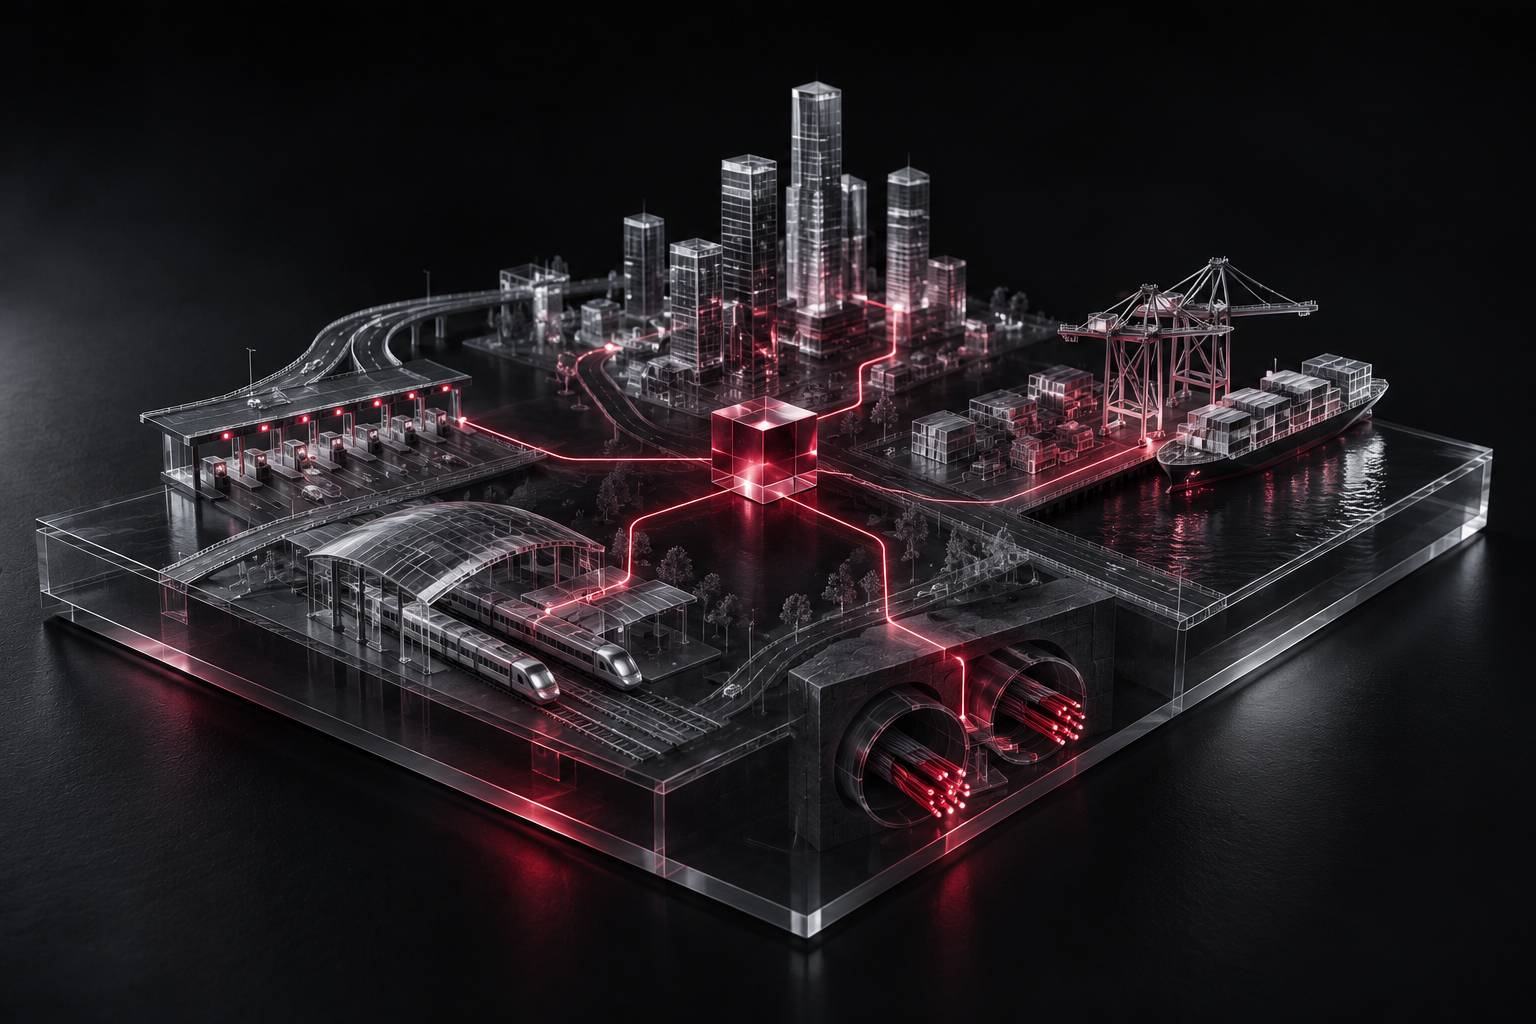
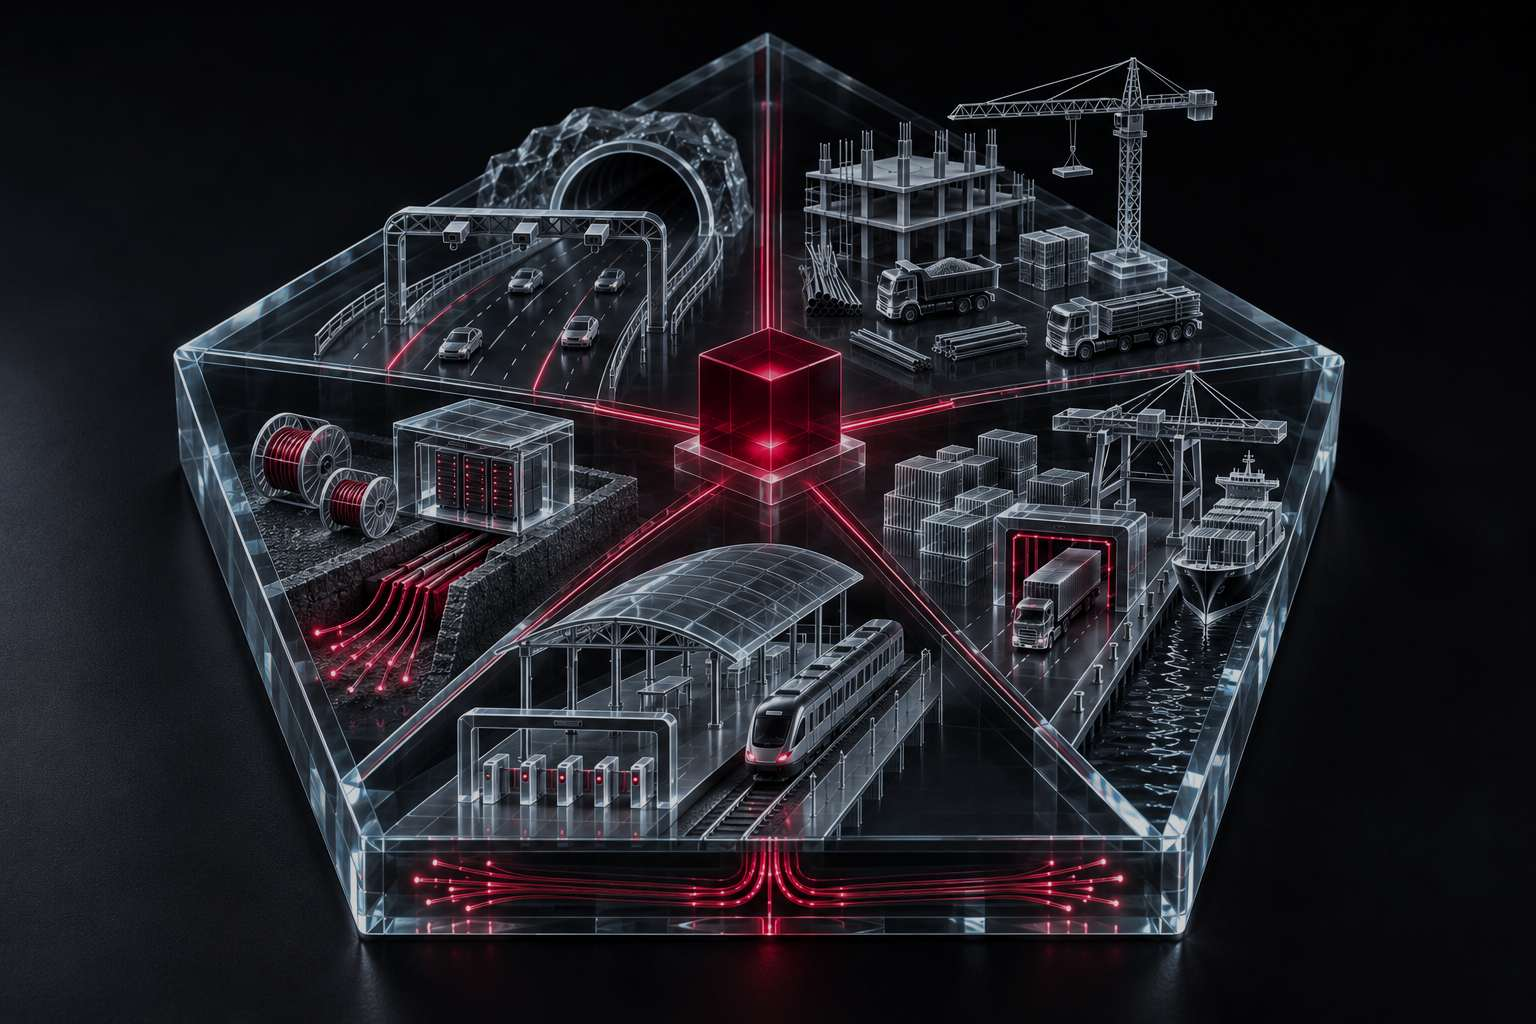
Ecosistema: maqueta pentagonal con cada alianza señalada en su zona
- Nueva maqueta (pentágono): SICE, Vista Alegre, NUCTECH (puerto y tren), ENTELAR y Capa de IA al centro
- 6 escenas: título, 4 alianzas con su leyenda original y Capa de IA
- Escritorio: tarjeta en la esquina libre unida a su zona con una línea; celular: nombre en el punto y leyenda abajo
- Operaciones y Ecosistema comparten la misma lógica de escenas con puntos

Claude-Session: https://claude.ai/code/session_01WeY6dgYugp4uGVqj1CjKYH

diff --git a/script.js b/script.js
@@ -33,7 +33,6 @@ document.addEventListener('DOMContentLoaded', () => {
 
     const sequenceSectionOperaciones = document.getElementById('operaciones');
     const operacionesTrack = document.getElementById('operaciones-text-track');
-    const operacionesBgs = sequenceSectionOperaciones ? sequenceSectionOperaciones.querySelectorAll('.seq-bg') : [];
 
     const sequenceSectionPilares = document.getElementById('experiencia');
     const pilaresTrack = document.getElementById('pilares-text-track');
@@ -46,57 +45,85 @@ document.addEventListener('DOMContentLoaded', () => {
 
     const sequenceSectionEcosistema = document.getElementById('ecosistema');
     const ecosistemaTrack = document.getElementById('ecosistema-text-track');
-    const ecosistemaBgs = sequenceSectionEcosistema ? sequenceSectionEcosistema.querySelectorAll('.seq-bg') : [];
 
-    // OPERACIONES: escenas fijas (título y 4 regiones señaladas en el mapa)
-    const opSceneCount = sequenceSectionOperaciones ? sequenceSectionOperaciones.querySelectorAll('.snap-point').length : 0;
-    const opStage = sequenceSectionOperaciones ? sequenceSectionOperaciones.querySelector('.op-stage') : null;
-    const opSpots = sequenceSectionOperaciones ? sequenceSectionOperaciones.querySelectorAll('.op-spot') : [];
-    let opCurrent = -1;
+    // ESCENAS CON PUNTOS SOBRE UNA IMAGEN (Operaciones y Ecosistema)
+    // Escena 0: título sobre blanco. Escenas 1+: se enciende el punto (y su tarjeta) de esa escena;
+    // los anteriores quedan con su nombre.
+    function makeSpotSequence(section, track) {
+        const stage = section.querySelector('.op-stage');
+        const bgs = section.querySelectorAll(':scope > .sticky-container > .seq-bg');
+        const spots = section.querySelectorAll('.op-spot');
+        const cards = section.querySelectorAll('.eco-card');
+        const svg = section.querySelector('.eco-lines');
+        const lines = svg ? svg.querySelectorAll('line') : [];
+        const count = section.querySelectorAll('.snap-point').length;
+        let current = -1;
 
-    function placeOpSpots() {
-        const vertical = window.innerWidth <= 768;
-        opSpots.forEach(spot => {
-            spot.style.left = (vertical ? spot.dataset.xv : spot.dataset.x) + '%';
-            spot.style.top = (vertical ? spot.dataset.yv : spot.dataset.y) + '%';
-        });
-        if (opCurrent >= 0) { const c = opCurrent; opCurrent = -1; setOpScene(c); }
-    }
-
-    function setOpScene(index) {
-        if (index === opCurrent) return;
-        opCurrent = index;
-        sequenceSectionOperaciones.dataset.scene = index;
-        if (operacionesTrack) operacionesTrack.style.transform = `translateY(-${index * 100}vh)`;
-        operacionesBgs.forEach((bg, idx) => bg.classList.toggle('active', idx === Math.min(index, 1)));
-        let focus = null;
-        opSpots.forEach(spot => {
-            const n = Number(spot.dataset.scene);
-            spot.classList.toggle('is-on', n === index);
-            spot.classList.toggle('is-seen', n < index);
-            if (n === index) focus = spot;
-        });
-        if (opStage && focus) {
-            opStage.style.setProperty('--fx', focus.style.left);
-            opStage.style.setProperty('--fy', focus.style.top);
+        function drawLines() {
+            if (!svg || !stage) return;
+            const sr = stage.getBoundingClientRect();
+            svg.setAttribute('viewBox', `0 0 ${sr.width} ${sr.height}`);
+            lines.forEach(line => {
+                const spot = section.querySelector('#spot-' + line.dataset.from);
+                const card = Array.from(cards).find(c => c.dataset.for.split(' ').includes(line.dataset.from));
+                if (!spot || !card) return;
+                const px = parseFloat(spot.style.left) / 100 * sr.width;
+                const py = parseFloat(spot.style.top) / 100 * sr.height;
+                const cl = card.offsetLeft, ct = card.offsetTop, cw = card.offsetWidth, ch = card.offsetHeight;
+                // Punto del borde de la tarjeta más cercano al punto de la maqueta
+                const cx = Math.min(Math.max(px, cl), cl + cw);
+                const cy = Math.min(Math.max(py, ct), ct + ch);
+                line.setAttribute('x1', cx); line.setAttribute('y1', cy);
+                line.setAttribute('x2', px); line.setAttribute('y2', py);
+            });
         }
+
+        function place() {
+            const vertical = window.innerWidth <= 768;
+            spots.forEach(spot => {
+                spot.style.left = (vertical ? spot.dataset.xv : spot.dataset.x) + '%';
+                spot.style.top = (vertical ? spot.dataset.yv : spot.dataset.y) + '%';
+            });
+            drawLines();
+            if (current >= 0) { const c = current; current = -1; setScene(c); }
+        }
+
+        function setScene(index) {
+            if (index === current) return;
+            current = index;
+            section.dataset.scene = index;
+            if (track) track.style.transform = `translateY(-${index * 100}vh)`;
+            bgs.forEach((bg, idx) => bg.classList.toggle('active', idx === Math.min(index, 1)));
+            let focus = null;
+            section.querySelectorAll('.op-spot, .eco-card, .eco-lines line').forEach(el => {
+                const n = Number(el.dataset.scene);
+                el.classList.toggle('is-on', n === index);
+                el.classList.toggle('is-seen', n < index);
+                if (n === index && !focus && el.classList.contains('op-spot')) focus = el;
+            });
+            if (stage && focus) {
+                stage.style.setProperty('--fx', focus.style.left);
+                stage.style.setProperty('--fy', focus.style.top);
+            }
+        }
+
+        place();
+        window.addEventListener('resize', place);
+        window.addEventListener('load', drawLines);
+
+        return function onScroll(windowHeight) {
+            const rect = section.getBoundingClientRect();
+            // Una escena por pantalla, alineada con los puntos de anclaje (tolerancia de 2px)
+            if (rect.top <= 2 && rect.bottom >= windowHeight - 2) {
+                let activeIndex = Math.round(Math.max(0, -rect.top) / windowHeight);
+                if (activeIndex >= count) activeIndex = count - 1;
+                setScene(activeIndex);
+            }
+        };
     }
 
-    if (sequenceSectionOperaciones) {
-        placeOpSpots();
-        window.addEventListener('resize', placeOpSpots);
-    }
-
-    // ECOSISTEMA: escenas fijas (título, maqueta y capa de IA)
-    const ecoSceneCount = sequenceSectionEcosistema ? sequenceSectionEcosistema.querySelectorAll('.snap-point').length : 0;
-    let ecoCurrent = -1;
-    function setEcoScene(index) {
-        if (index === ecoCurrent) return;
-        ecoCurrent = index;
-        sequenceSectionEcosistema.dataset.scene = index;
-        if (ecosistemaTrack) ecosistemaTrack.style.transform = `translateY(-${index * 100}vh)`;
-        ecosistemaBgs.forEach((bg, idx) => bg.classList.toggle('active', idx === Math.min(index, 1)));
-    }
+    const operacionesScroll = sequenceSectionOperaciones ? makeSpotSequence(sequenceSectionOperaciones, operacionesTrack) : null;
+    const ecosistemaScroll = sequenceSectionEcosistema ? makeSpotSequence(sequenceSectionEcosistema, ecosistemaTrack) : null;
 
     window.addEventListener('scroll', () => {
         const currentScrollY = window.scrollY;
@@ -125,15 +152,7 @@ document.addEventListener('DOMContentLoaded', () => {
             }
         }
 
-        if (sequenceSectionOperaciones) {
-            const rect = sequenceSectionOperaciones.getBoundingClientRect();
-            // Misma lógica que IA: una escena por pantalla, alineada con los puntos de anclaje
-            if (rect.top <= 2 && rect.bottom >= windowHeight - 2) {
-                let activeIndex = Math.round(Math.max(0, -rect.top) / windowHeight);
-                if (activeIndex >= opSceneCount) activeIndex = opSceneCount - 1;
-                setOpScene(activeIndex);
-            }
-        }
+        if (operacionesScroll) operacionesScroll(windowHeight);
 
         if (sequenceSectionIA) {
             const rect = sequenceSectionIA.getBoundingClientRect();
@@ -189,15 +208,7 @@ document.addEventListener('DOMContentLoaded', () => {
             }
         }
 
-        if (sequenceSectionEcosistema) {
-            const rect = sequenceSectionEcosistema.getBoundingClientRect();
-            // Misma lógica que IA: una escena por pantalla, alineada con los puntos de anclaje
-            if (rect.top <= 2 && rect.bottom >= windowHeight - 2) {
-                let activeIndex = Math.round(Math.max(0, -rect.top) / windowHeight);
-                if (activeIndex >= ecoSceneCount) activeIndex = ecoSceneCount - 1;
-                setEcoScene(activeIndex);
-            }
-        }
+        if (ecosistemaScroll) ecosistemaScroll(windowHeight);
     });
 
     /* ==================================================

diff --git a/index.html b/index.html
@@ -454,21 +454,43 @@
             </div>
         </section>
 
-        <!-- 6. ECOSISTEMA (escenas fijas) -->
-        <section id="ecosistema" class="sticky-sequence ecosistema-sequence" data-scene="0">
+        <!-- 6. ECOSISTEMA (escenas fijas: título, 4 alianzas señaladas en la maqueta y capa de IA) -->
+        <section id="ecosistema" class="sticky-sequence ecosistema-sequence spot-sequence" data-scene="0">
             <div class="snap-grid">
                 <div class="snap-point"></div><div class="snap-point"></div>
-                <div class="snap-point"></div>
+                <div class="snap-point"></div><div class="snap-point"></div>
+                <div class="snap-point"></div><div class="snap-point"></div>
             </div>
             <div class="sticky-container" id="sticky-ecosistema">
                 <div class="seq-bg active" style="background-color: var(--bg-white);"></div>
                 <div class="seq-bg bg-picture eco-bg">
-                    <div class="eco-stage">
+                    <div class="eco-stage op-stage spot-stage">
                         <picture>
                             <source media="(max-width: 768px)" srcset="img/ecosistemav.jpg">
-                            <img src="img/ecosistema.jpg" alt="Maqueta de infraestructura: peaje, estación de tren, puerto y túneles de fibra óptica conectados por un núcleo de datos" class="eco-img">
+                            <img src="img/ecosistema.jpg" alt="Maqueta pentagonal de cristal con cinco zonas: autopista con peaje y túnel, obra en construcción, puerto con inspección de carga, estación de tren y red de fibra óptica, conectadas a un cubo central de IA" class="eco-img">
                         </picture>
-                        <div class="eco-shade"></div>
+                        <div class="op-shade"></div>
+                        <svg class="eco-lines" aria-hidden="true">
+                            <line data-scene="1" data-from="sice"/>
+                            <line data-scene="2" data-from="va"/>
+                            <line data-scene="3" data-from="nuc"/>
+                            <line data-scene="3" data-from="nuc-tren"/>
+                            <line data-scene="4" data-from="ent"/>
+                            <line data-scene="5" data-from="ia"/>
+                        </svg>
+                        <div class="op-spots">
+                            <div class="op-spot" id="spot-sice" data-scene="1" data-x="33.9" data-y="28.3" data-xv="31.3" data-yv="37.8"><span class="eco-dot"></span><span class="op-name">SICE</span></div>
+                            <div class="op-spot" id="spot-va" data-scene="2" data-x="60.5" data-y="24.4" data-xv="63.5" data-yv="36.5"><span class="eco-dot"></span><span class="op-name">Vista Alegre</span></div>
+                            <div class="op-spot" id="spot-nuc" data-scene="3" data-x="67.7" data-y="54.7" data-xv="72.8" data-yv="55.3"><span class="eco-dot"></span><span class="op-name">NUCTECH</span></div>
+                            <div class="op-spot spot-extra" id="spot-nuc-tren" data-scene="3" data-x="50.8" data-y="67.4" data-xv="54.7" data-yv="61.2"><span class="eco-dot"></span></div>
+                            <div class="op-spot" id="spot-ent" data-scene="4" data-x="28.0" data-y="48.8" data-xv="28.3" data-yv="50.8"><span class="eco-dot"></span><span class="op-name">ENTELAR</span></div>
+                            <div class="op-spot spot-core" id="spot-ia" data-scene="5" data-x="49.8" data-y="39.0" data-xv="49.8" data-yv="44.9"><span class="eco-dot"></span></div>
+                        </div>
+                        <div class="eco-card c-tl" data-scene="1" data-for="sice"><span class="op-num">01 / 04 · Movilidad</span><h3>SICE</h3><p><strong>Sistemas ITS, peaje inteligente</strong> con IA (Free-Flow) y monitorización algorítmica y autónoma de túneles vehiculares.</p></div>
+                        <div class="eco-card c-tr" data-scene="2" data-for="va"><span class="op-num">02 / 04 · Suministro</span><h3>Vista Alegre</h3><p><strong>Provisión ininterrumpida</strong> de materiales estructurales y operación de red logística pesada para la cimentación de la infraestructura civil.</p></div>
+                        <div class="eco-card c-br" data-scene="3" data-for="nuc nuc-tren"><span class="op-num">03 / 04 · Seguridad</span><h3>NUCTECH</h3><p><strong>Inspección tecnológica</strong> profunda de carga de mercancías y validación de alto flujo en sistemas de boletaje ferroviario.</p></div>
+                        <div class="eco-card c-bl" data-scene="4" data-for="ent"><span class="op-num">04 / 04 · Conectividad</span><h3>ENTELAR</h3><p><strong>Diseño e instalación de</strong> infraestructura de FO troncal y configuración del ecosistema de conectividad privada FLEXI WAN.</p></div>
+                        <div class="eco-card c-tr eco-card-ia" data-scene="5" data-for="ia"><span class="op-num">4ward</span><h3>Capa de IA</h3><p>Conecta los datos de los cuatro frentes.</p></div>
                     </div>
                 </div>
 
@@ -477,12 +499,30 @@
                         <div class="text-slider-item">
                             <h2 class="edge-title text-dark">El Ecosistema en Acción</h2>
                         </div>
-                        <div class="text-slider-item"></div>
-                        <div class="text-slider-item">
-                            <p class="ally-tag">4ward</p>
-                            <h3 class="edge-title text-light eco-title">Capa de IA 4ward</h3>
+                        <div class="text-slider-item op-cap">
+                            <span class="op-num">01 / 04 · Movilidad</span>
+                            <h3 class="edge-title text-light">SICE</h3>
+                            <p class="seq-desc">Sistemas ITS, peaje inteligente con IA (Free-Flow) y monitorización algorítmica y autónoma de túneles vehiculares.</p>
+                        </div>
+                        <div class="text-slider-item op-cap">
+                            <span class="op-num">02 / 04 · Suministro</span>
+                            <h3 class="edge-title text-light">Vista Alegre</h3>
+                            <p class="seq-desc">Provisión ininterrumpida de materiales estructurales y operación de red logística pesada para la cimentación de la infraestructura civil.</p>
+                        </div>
+                        <div class="text-slider-item op-cap">
+                            <span class="op-num">03 / 04 · Seguridad</span>
+                            <h3 class="edge-title text-light">NUCTECH</h3>
+                            <p class="seq-desc">Inspección tecnológica profunda de carga de mercancías y validación de alto flujo en sistemas de boletaje ferroviario.</p>
+                        </div>
+                        <div class="text-slider-item op-cap">
+                            <span class="op-num">04 / 04 · Conectividad</span>
+                            <h3 class="edge-title text-light">ENTELAR</h3>
+                            <p class="seq-desc">Diseño e instalación de infraestructura de FO troncal y configuración del ecosistema de conectividad privada FLEXI WAN.</p>
+                        </div>
+                        <div class="text-slider-item op-cap">
+                            <span class="op-num">4ward</span>
+                            <h3 class="edge-title text-light">Capa de IA</h3>
                             <p class="seq-desc">Conecta los datos de los cuatro frentes.</p>
-                            <p class="eco-allies">SICE <span>·</span> Vista Alegre <span>·</span> NUCTECH <span>·</span> ENTELAR</p>
                         </div>
                     </div>
                 </div>

diff --git a/styles.css b/styles.css
@@ -385,25 +385,42 @@ html {
 }
 
 /* =========================================
-   ECOSISTEMA — escenas fijas con etiquetas en HTML
-   Escena 0: título sobre blanco · 1: maqueta limpia · 2: capa de IA (maqueta oscurecida). Las alianzas se presentan en Experiencia.
+   ECOSISTEMA — maqueta pentagonal con las alianzas señaladas en HTML
+   Escena 0: título sobre blanco · 1–4: SICE, Vista Alegre, NUCTECH, ENTELAR · 5: Capa de IA (cubo central).
+   Usa el mismo sistema de puntos que Operaciones (.op-spot, .op-shade, .op-cap); en escritorio la leyenda
+   va en una tarjeta en la esquina libre de la imagen, unida a su zona por una línea (como la imagen original).
 ========================================= */
-.ecosistema-sequence { height: 300vh; }
+.ecosistema-sequence { height: 600vh; }
 .eco-bg { background: #000; }
-.eco-stage { position: relative; width: min(100vw, 150vh); aspect-ratio: 3 / 2; }
+.eco-stage { position: relative; width: min(100vw, 150vh); aspect-ratio: 3 / 2; container-type: size; }
 .eco-stage picture, .eco-img { display: block; width: 100%; height: 100%; }
 .eco-img { object-fit: cover; }
-.eco-shade { position: absolute; inset: 0; pointer-events: none; background: rgba(0,0,0,0.62); opacity: 0; transition: opacity 0.8s ease; }
-.ecosistema-sequence:not([data-scene="0"]):not([data-scene="1"]) .eco-shade { opacity: 1; }
-.eco-title { font-size: clamp(2.6rem, 5.2vw, 6vw); }
-.eco-allies { margin-top: 34px; font-size: 0.85rem; letter-spacing: 4px; text-transform: uppercase; color: #fff; opacity: 0.85; text-align: center; }
-.eco-allies span { color: var(--brand); padding: 0 8px; }
+.ecosistema-sequence .op-name { font-size: clamp(0.62rem, 0.9cqw, 0.78rem); }
+.spot-extra .op-name, .spot-core .op-name { display: none; }
+.op-spot.spot-extra.is-seen { opacity: 0; }
+.ecosistema-sequence .eco-img { -webkit-mask-image: linear-gradient(to right, transparent 0, #000 5%, #000 95%, transparent 100%); mask-image: linear-gradient(to right, transparent 0, #000 5%, #000 95%, transparent 100%); }
+
+.eco-lines { position: absolute; inset: 0; width: 100%; height: 100%; pointer-events: none; z-index: 2; overflow: visible; }
+.eco-lines line { stroke: #fff; stroke-width: 1.5; opacity: 0; transition: opacity 0.5s ease 0.2s; }
+.eco-lines line.is-on { opacity: 0.85; }
+
+.eco-card { position: absolute; z-index: 4; width: 23cqw; padding: 1.6cqw 1.8cqw; background: rgba(8,8,8,0.84); border: 1px solid rgba(137,20,37,0.7); border-radius: 1.6cqw; backdrop-filter: blur(6px); -webkit-backdrop-filter: blur(6px); opacity: 0; transform: translateY(10px); transition: opacity 0.6s ease 0.25s, transform 0.6s ease 0.25s; pointer-events: none; }
+.eco-card::before { content: ''; position: absolute; top: 0; left: 1.8cqw; width: 3.4cqw; height: 3px; background: var(--brand); }
+.eco-card.is-on { opacity: 1; transform: translateY(0); }
+.eco-card .op-num { font-size: clamp(0.6rem, 0.85cqw, 0.8rem); letter-spacing: 2px; }
+.eco-card h3 { font-size: clamp(1.4rem, 2.4cqw, 2.4rem); text-transform: uppercase; letter-spacing: -0.03em; line-height: 1; margin: 0.6cqw 0 0.8cqw; color: #fff; }
+.eco-card p { color: #d0d0d0; font-size: clamp(0.78rem, 1.08cqw, 1.05rem); line-height: 1.45; }
+.eco-card p strong { color: #fff; font-weight: 700; }
+.c-tl { left: 2.5cqw; top: 9cqh; }
+.c-tr { right: 2.5cqw; top: 9cqh; }
+.c-bl { left: 2.5cqw; bottom: 4cqh; }
+.c-br { right: 2.5cqw; bottom: 4cqh; }
 
 @media (max-width: 768px) {
     .eco-stage { width: min(100vw, 66.667vh); aspect-ratio: 2 / 3; }
-    .eco-title { font-size: 11vw; }
-    .eco-allies { font-size: 0.68rem; letter-spacing: 2px; margin-top: 26px; line-height: 2; }
-    .eco-allies span { padding: 0 4px; }
+    .eco-card, .eco-lines { display: none; }
+    .ecosistema-sequence .op-name { font-size: 0.58rem; }
+    .ecosistema-sequence .eco-img { -webkit-mask-image: none; mask-image: none; }
 }
 
 /* =========================================
